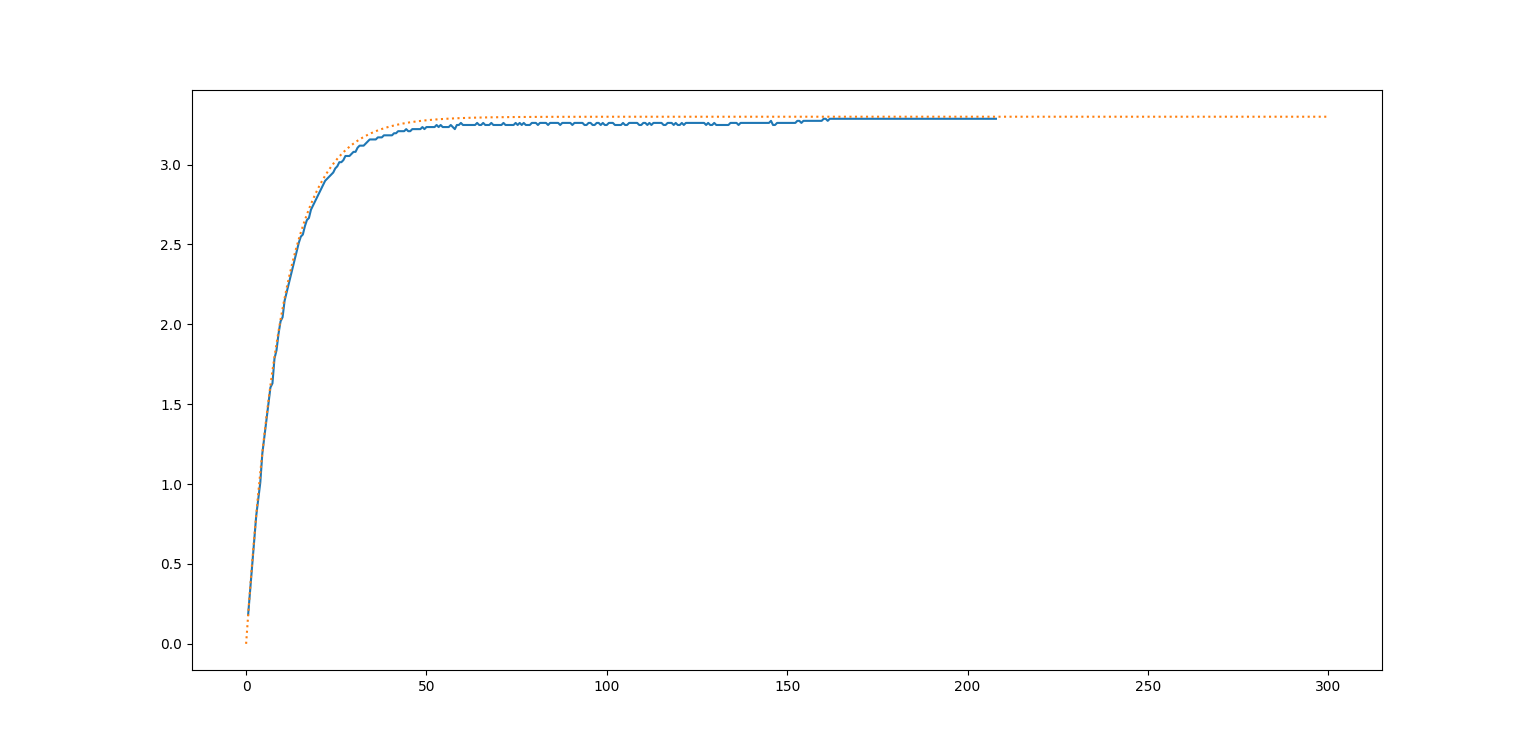
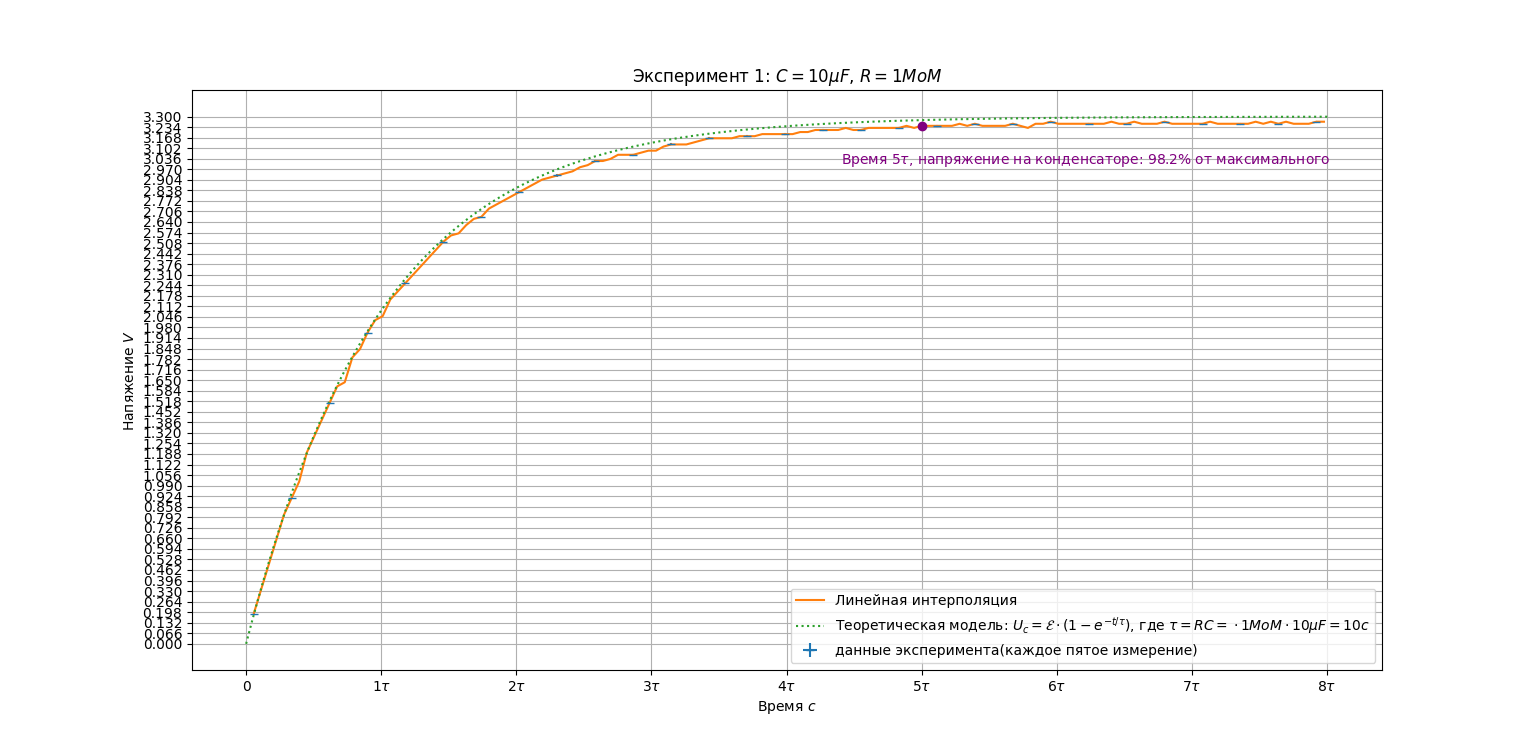
Набросок графика

diff --git a/RC_lab/plotResults.py b/RC_lab/plotResults.py
@@ -1,23 +1,41 @@
+from turtle import color
 import matplotlib.pyplot as plt
 import numpy as np
-
+import scipy.interpolate as interp
 def readData(path: str):
     time = []
     voltage = []
     data = open(path)
     for line in data:
         t,v = map(float,line.split())
-        v*=(3.3/255)
-        voltage.append(v)
-        time.append(t)
+        v = (v+0.5)*(3.3/255)
+        if t<=80:
+            voltage.append(v)
+            time.append(t)
     return voltage,time
 
 dataPath = 'meagurement/data.txt'
 voltage,time = readData(dataPath)
-xAx = np.arange(0,300,0.01)
+xAx = np.arange(0,80.1,0.01)
 yAx = 3.3*(1-np.exp(-xAx/10))
-#plt.errorbar(time,voltage,yerr = [3.3/(255*2) for _ in time],xerr = [0.0001 for _ in time],fmt='_')
-plt.plot(time,voltage)
-plt.plot(xAx,yAx,':')
+f = interp.interp1d(time,voltage)
+fiveTauDot = f(50)
+fig,axes = plt.subplots()
+axes.set_title("Эксперимент 1: $C = 10 \mu F$, $R = 1MoM$")
+plt.xlabel(r"Время $с$")
+plt.ylabel("Напяжение $V$")
+#Сетка по оси y - пять шагов квантования АЦП
+plt.yticks(np.linspace(0,3.3,255//5))
+#По оси x - 0.5 tau
+plt.xticks([0,10,20,30,40,50,60,70,80],["0",r"$1 \tau$",r"$2 \tau$",r"$3 \tau$",r"$4 \tau$",r"$5 \tau$",r"$6 \tau$",r"$7 \tau$",r"$8 \tau$"])
+plt.grid()
+#время измерения АЦП - O(0.007*8) секунд(алгоритм поразрядного уравновешивания)
+#погрешноть по оси y - половина шага квантования 
+plt.errorbar(time[::5],voltage[::5],yerr = [3.3/(255*2) for _ in time[::5]],xerr = [0.007*8 for _ in time[::5]],fmt='_',label='данные эксперимента(каждое пятое измерение)')
+plt.plot(time,voltage,label = 'Линейная интерполяция')
+plt.plot(xAx,yAx,':',label = r'''Теоретическая модель: $U_c = \mathcal{E} \cdot \left( 1 - e^{-t / \tau} \right) $, где $\tau = RC = \cdot 1 MoM \cdot 10 \mu F = 10 c$''')
+plt.annotate(r"Время $5 \tau$, напряжение на конденсаторе: "+str(round(100*fiveTauDot/3.3,1))+"$\%$"+" от максимального", xy=(50, fiveTauDot), xytext=(44, 3),color = 'purple')
+plt.plot([50],[fiveTauDot],'o',color = 'purple')
+axes.legend(loc = 'lower right')
 plt.show()
 
